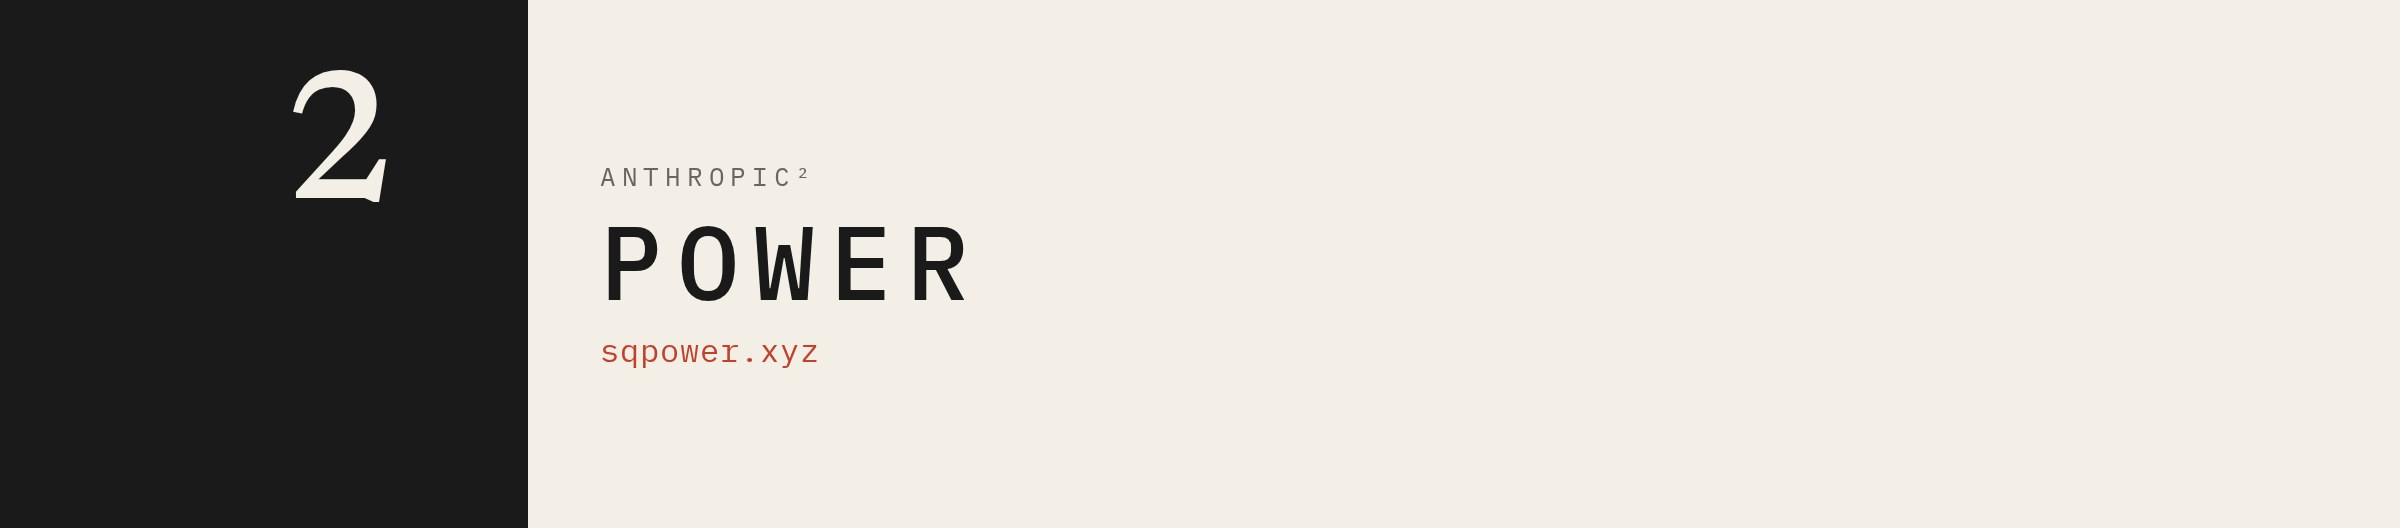
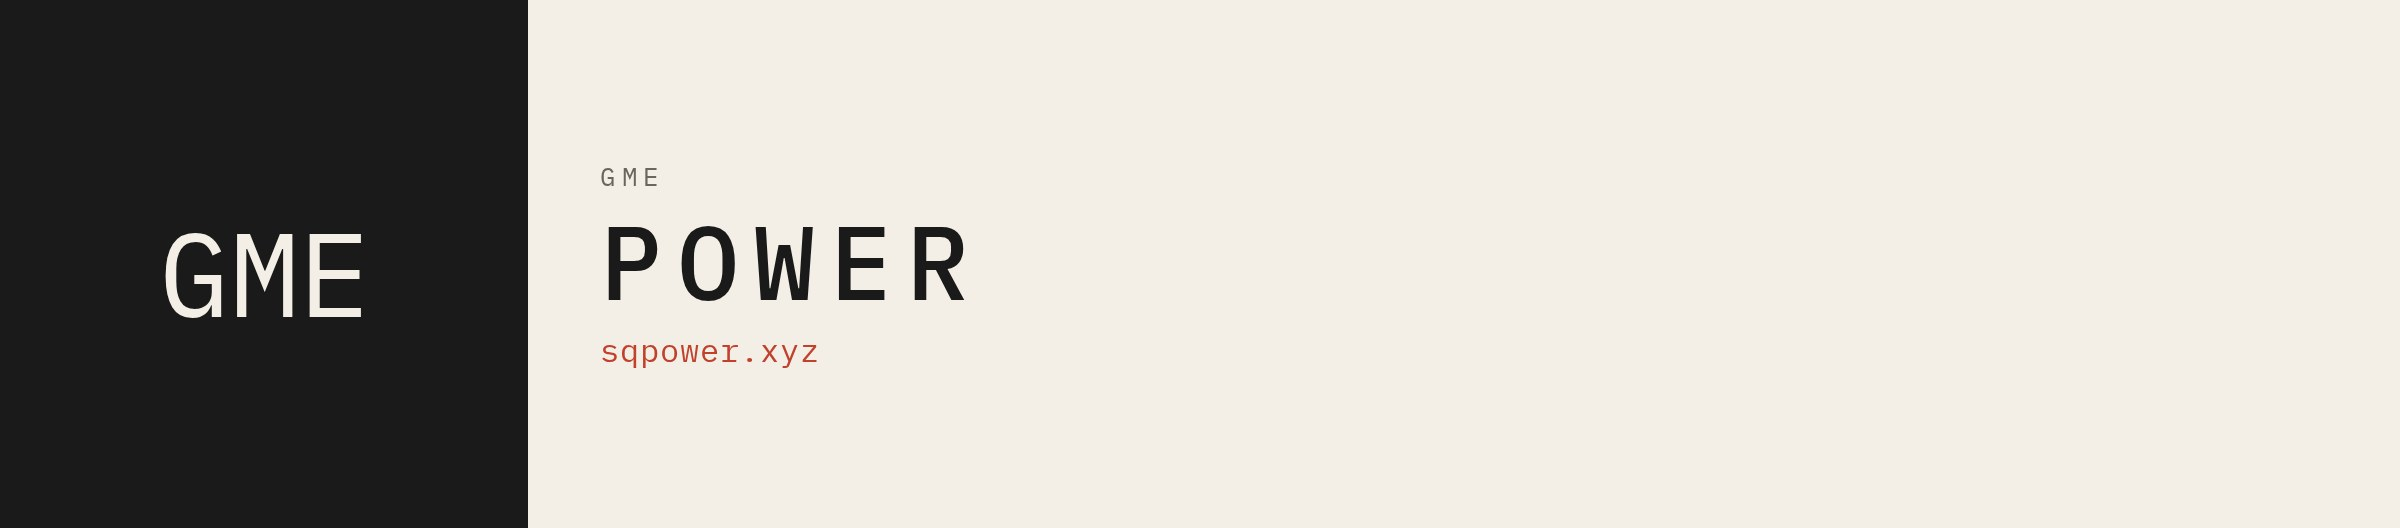
mark is GME, Anthropic copy removed from the site

Changed region(s): [[0.0625, 0.4242, 0.1562, 0.6061], [0.125, 0.1212, 0.1875, 0.3939], [0.25, 0.303, 0.3125, 0.3636]]

diff --git a/src/components/chrome.tsx b/src/components/chrome.tsx
@@ -31,7 +31,7 @@ export function Header() {
             {SITE.name}
           </div>
           <div className="mt-0.5 font-mono text-micro tracking-wide text-mute">
-            {SITE.mark} · ${SITE.ticker} · {SITE.pair}
+            ${SITE.ticker} · {SITE.pair}
           </div>
         </div>
       </a>
@@ -57,14 +57,14 @@ function Mark() {
     <svg viewBox="0 0 40 40" width="40" height="40" aria-hidden className="shrink-0">
       <rect width="40" height="40" fill="var(--color-ink)" />
       <text
-        x="30"
-        y="14"
-        textAnchor="end"
+        x="20"
+        y="24"
+        textAnchor="middle"
         fill="var(--color-paper)"
-        fontFamily="var(--font-display), serif"
-        fontSize="14"
+        fontFamily="var(--font-mono), ui-monospace, monospace"
+        fontSize="9"
       >
-        2
+        GME
       </text>
     </svg>
   );

diff --git a/src/routes/how.tsx b/src/routes/how.tsx
@@ -39,7 +39,7 @@ side     ≤  ${SITE.sideMax}`}
           </li>
         </ul>
         <p className="mt-8 text-sm leading-relaxed text-mute">
-          Not affiliated with Anthropic or GameStop. Token CA stays empty until LONG mints ${SITE.ticker}. Pair {SITE.pair} is not the token. Do not pass it to bindToken.
+          Not affiliated with GameStop. Token CA stays empty until LONG mints ${SITE.ticker}. Pair {SITE.pair} is not the token. Do not pass it to bindToken.
         </p>
         <Link to="/" className="mt-8 inline-block font-mono text-xs text-power underline">
           back to the square

diff --git a/src/routes/__root.tsx b/src/routes/__root.tsx
@@ -14,7 +14,7 @@ export const Route = createRootRoute({
       {
         name: "description",
         content:
-          "The square of the sum is not the sum of the squares. $SQPOWER · LONG × GME · sqpower.xyz. Not affiliated with Anthropic or GameStop.",
+          "The square of the sum is not the sum of the squares. $SQPOWER · LONG × GME · sqpower.xyz. Not affiliated with GameStop.",
       },
       { name: "theme-color", content: "#f3efe6" },
     ],

diff --git a/src/lib/site.ts b/src/lib/site.ts
@@ -1,7 +1,7 @@
 /** Public constants. Empty CA = pending. Do not invent an address. */
 export const SITE = {
   name: "POWER",
-  mark: "ANTHROPIC²",
+  mark: "GME",
   ticker: "SQPOWER",
   line: "The square of the sum is not the sum of the squares.",
   tokenCa: "",

diff --git a/public/brand/COPY.md b/public/brand/COPY.md
@@ -1,17 +1,17 @@
 # POWER — X pack
 
-Mark: ANTHROPIC²
+Mark: GME
 Ticker: $SQPOWER
 Pair: LONG × GME
-Not affiliated with Anthropic.
+Not affiliated with GameStop.
 
 ## X bio
 
 (Σa)² is not Σa². The cross term is the pool.
 
-$SQPOWER · ANTHROPIC²
+$SQPOWER · GME
 LONG × GME
-Not Anthropic.
+Not GameStop.
 
 Location: the square
 Website: https://sqpower.xyz
@@ -38,7 +38,7 @@ The side caps at 12. The step that would make 13 evicts the lightest other seat.
 
 This is not a chart. It is an identity you can sit inside.
 
-$SQPOWER pairs with GME on Robinhood Chain. The site is https://sqpower.xyz. Anthropic did not make this and does not run it. Not affiliated with GameStop.
+$SQPOWER pairs with GME on Robinhood Chain. The site is https://sqpower.xyz. Not affiliated with GameStop.
 
 ## Post 1 — the identity (x-post-1.png)
 
@@ -46,9 +46,9 @@ $SQPOWER pairs with GME on Robinhood Chain. The site is https://sqpower.xyz. Ant
 
 Add the squares and you miss the pool.
 
-$SQPOWER · ANTHROPIC²
+$SQPOWER · GME
 LONG × GME
-Not Anthropic.
+Not GameStop.
 
 ## Post 2 — the pool (x-post-2.png)
 
@@ -69,5 +69,5 @@ spark adds 3.
 the next step evicts the lightest other seat.
 
 Sit in the square.
-$SQPOWER · ANTHROPIC²
-Not Anthropic.
+$SQPOWER · GME
+Not GameStop.

diff --git a/README.md b/README.md
@@ -1,6 +1,6 @@
 # POWER
 
-Ticker `SQPOWER`. Mark `ANTHROPIC²`. Site: [sqpower.xyz](https://sqpower.xyz). Pair: LONG × GME `0x1b0e319c6a659f002271b69db8a7df2f911c153e`. **Not affiliated with Anthropic or GameStop.**
+Ticker `SQPOWER`. Mark `GME`. Site: [sqpower.xyz](https://sqpower.xyz). Pair: LONG × GME `0x1b0e319c6a659f002271b69db8a7df2f911c153e`. **Not affiliated with GameStop.**
 
 The square of the sum is not the sum of the squares. A seat holds a coefficient `a`. The board is `(Σa)²`. Your own power is `a²`. The gap is the cross term `2Σab` — the pool no single wallet owns.
 
